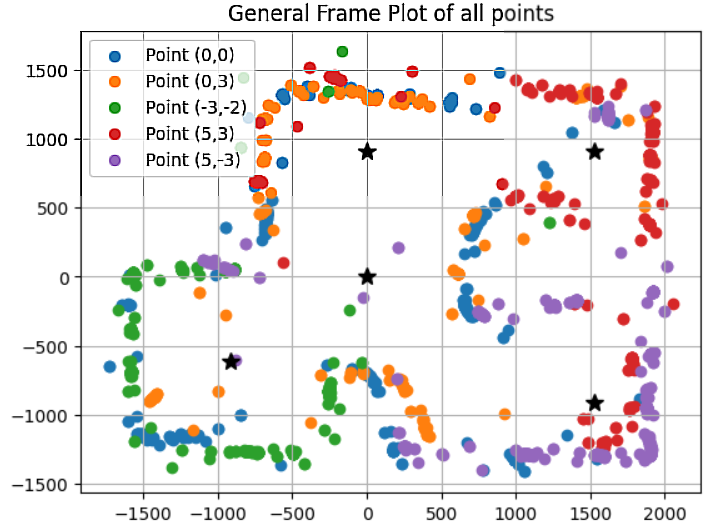
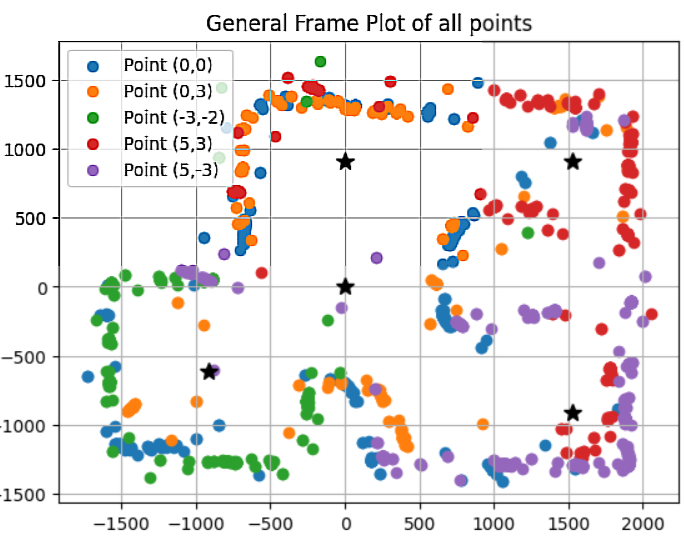
update

Changed region(s): [[0.0, 0.0, 1.0, 1.0], [0.4605, 0.4848, 0.5219, 0.6061], [0.5219, 0.4545, 0.5833, 0.4848]]

diff --git a/index.html b/index.html
@@ -138,7 +138,7 @@
                   <!-- Portfolio Item 9-->
                   <div class="col-md-6 col-lg-4">
                       <div class="portfolio-item mx-auto" data-bs-toggle="modal" data-bs-target="#Lab9">
-                          <img class="img-fluid" src="assets/img/Lab8/lab8_image.png" alt="..." />
+                          <img class="img-fluid" src="assets/img/Lab9/full_map.png" alt="..." />
                           <h2 class="text-primary text-center mb-4">Lab 9</h2>
                       </div>
                   </div>
